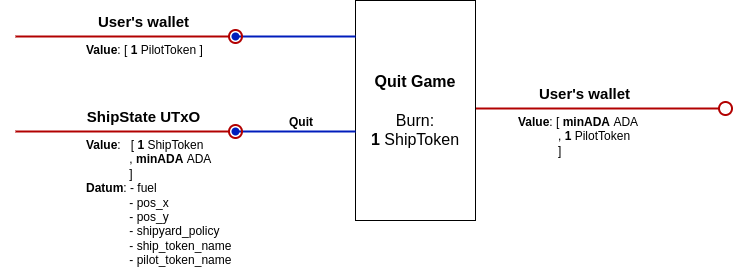
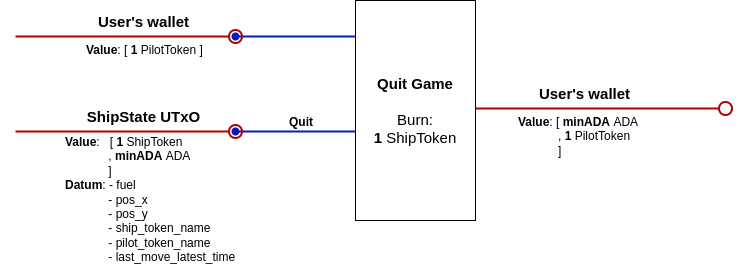
updated mvp design document.

diff --git a/onchain/docs/mvp-design/design.md b/onchain/docs/mvp-design/design.md
@@ -1,185 +1,237 @@
 # Asteria dApp Design
 
 ## Introduction
+
 This document describes the technical design of the Asteria dApp - the script UTxOs involved, the operations that take place both during the game and in the setup phase, and the necessary validators and minting policies.
 
 There will be a single `AsteriaUtxo`, several `PelletState` UTxOs and a `ShipState` UTxO for every user. The `AsteriaUtxo` locks the ada amount paid by each user when creating a ship, and it's position on the board is always assumed to be (0,0). Both `PelletState` and `ShipState` UTxOs have their positions specified in the datum. In order to identify valid game UTxOs, the admin will deposit a special token (the `AdminToken`) in the `PelletState` UTxOs and the `AsteriaUtxo` when creating them. This token is also used for parameterizing the Asteria and pellet validators, so we could have different "versions" of the game, each one with a different `AdminToken`.
 
 Each ship will be identified by a `ShipToken`, with a fixed policy id but a token name of their own. This is the token that is minted by the `ShipyardPolicy`, described in the validators section.
 
+## Glossary of Constants
+
+- `MAX_SPEED`: maximum speed allowed for ship's movement.
+- `INITIAL_FUEL`: ship's fuel upon creation.
+- `MAX_SHIP_FUEL`: ship's fuel capacity.
+- `FUEL_PER_STEP`: fuel spent per distance unit.
+- `MAX_ASTERIA_MINING`: maximum percentage that can be obtained from the rewards accumulated when a ship reaches Asteria. Must be an integer between 0 and 100.
+- `MIN_ASTERIA_DISTANCE`: ship's minimum distance to Asteria upon creation.
+- `SHIP_MINT_LOVELACE_FEE`: amount of Lovelace that users have to pay to create a ship.
 
 ## UTxOs specification
 
-### ShipState UTxO:
+### ShipState UTxO
 
->#### Address
->* Parameterized on `AdminToken`, Asteria validator address and pellet validator address.
->
->#### Datum
->* fuel: **Int**
->* pos_x: **Int**
->* pos_y: **Int**
->* ship_token_name: **AssetName**
->* pilot_token_name: **AssetName**
->
->#### Value
->* minADA
->* `ShipToken`
+#### Address
 
-### PelletState UTxO:
+>- Parameterized on `AdminToken`, Asteria validator address, pellet validator address, MAX_SPEED, MAX_SHIP_FUEL, FUEL_PER_STEP, INITIAL_FUEL and MIN_ASTERIA_DISTANCE.
 
->#### Address
->* Parameterized on the `AdminToken`.
->
->#### Datum
->* fuel: **Int**
->* pos_x: **Int**
->* pos_y: **Int**
->* shipyard_policy: **PolicyId**
->
->#### Value
->* minADA
->* `AdminToken`
+#### Datum
+
+>- fuel: **Int**
+>- pos_x: **Int**
+>- pos_y: **Int**
+>- ship_token_name: **AssetName**
+>- pilot_token_name: **AssetName**
+>- last_move_latest_time: **PosixTime**
+
+#### Value
+
+>- minADA
+>- `ShipToken`
+
+### PelletState UTxO
+
+#### Address
+
+>- Parameterized on the `AdminToken`.
+
+#### Datum
+
+>- fuel: **Int**
+>- pos_x: **Int**
+>- pos_y: **Int**
+>- shipyard_policy: **PolicyId**
+
+#### Value
+
+>- minADA
+>- `AdminToken`
 
 ### Asteria Utxo:
 
->#### Address
->* Parameterized on the `AdminToken`.
->
->#### Datum
->* ship_counter: **Int**
->* shipyard_policy: **PolicyId**
->
->#### Value
->* total_rewards
->* `AdminToken`
+#### Address
+
+>- Parameterized on the `AdminToken`, SHIP_MINT_LOVELACE_FEE, MAX_ASTERIA_MINING.
+
+#### Datum
+
+>- ship_counter: **Int**
+>- shipyard_policy: **PolicyId**
+
+#### Value
+
+>- minADA + total_rewards
+>- `AdminToken`
 >
 >Note: the reward amount is updated during the course of the game, whenever a new user joins or reaches Asteria.
 
-
 ## Transactions
 
-### Create AsteriaUtxo:
+### Create Asteria UTxO
+
 This transaction creates the unique `AsteriaUtxo` locking min ada and an `AdminToken`. It stores in the datum the `ShipToken` policy id for being able to reference it in the validator.
 
 ![createAsteria diagram](img/createAsteria.png)
 
+### Create a PelletState UTxO
 
-### Create a PelletState UTxO:
 Creates one `PelletState` UTxO locking min ada and an `AdminToken`, setting in the datum the `pos_x` and `pos_y` coordinates where the pellet will be located on the grid and the `fuel` value equal to some initial value.
 
 ![createPellet diagram](img/createPellet.png)
 
+### Consume PelletState UTxO
 
-### Create a ShipState UTxO:
-Creates a `ShipState` UTxO locking min ada and a `ShipToken` (minted in this tx), specifying in the datum the initial `pos_x` and `pos_y` coordinates of the ship, and setting `fuel` to an initial amount. Also adds to the `AsteriaUTxO` value the `SHIP_MINT_FEE` paid by the user.
+Pays the admin the value locked in the `PelletState` UTxO.
+
+![consumePellet diagram](img/consumePellet.png)
+
+### Create a ShipState UTxO
+
+Creates a `ShipState` UTxO locking min ada and a `ShipToken` (minted in this tx), specifying in the datum the initial `pos_x` and `pos_y` coordinates of the ship, its initial `fuel`, the ship and pilot token names and the `last_move_latest_time` as the upper bound of the transaction's validity range (posix time). Also adds to the `AsteriaUTxO` value the `SHIP_MINT_LOVELACE_FEE` paid by the user.
 
 ![createShip diagram](img/createShip.png)
 
+### Move a Ship
 
-### Move a Ship:
-Updates the `pos_x`, `pos_y` and `fuel` datum fields of the `ShipState` UTxO by adding the `delta_x` and `delta_y` values specified in the redeemer, and subtracting the fuel amount needed for the displacement.
+Updates the `pos_x`, `pos_y` and `fuel` datum fields of the `ShipState` UTxO by adding the `delta_x` and `delta_y` values specified in the redeemer, and subtracting the fuel amount needed for the displacement. Also updates the `last_move_latest_time` field with the transaction's validity range latest posix time.
 
 ![moveShip diagram](img/moveShip.png)
 
+### Gather Fuel
 
-### Gather Fuel:
 Updates the `fuel` datum field of both the `ShipState` and `PelletState` UTxOs, adding the `amount` (specified in the redeemer) from the first and subtracting it from the latter.
 
 ![gatherFuel diagram](img/gatherFuel.png)
 
+### Mine Asteria UTxO
 
-### Mine Asteria:
 Subtracts from the `AsteriaUTxO` at most `MAX_ASTERIA_MINING`% of the ada value, and pays that amount to the owner of the ship that reached Asteria, together with the min ada locked in the `ShipState` UTxO. The `ShipToken` is burnt.
 
 ![mineAsteria diagram](img/mineAsteria.png)
 
+### Consume Asteria UTxO
 
-### Quit Game:
+Pays the admin the value locked in the `AsteriaUtxo`.
+
+![consumeAsteria diagram](img/consumeAsteria.png)
+
+### Quit Game
+
 Pays the min ada locked in the `ShipState` UTxO back to the ship owner and burns the `ShipToken`.
 
 ![quit diagram](img/quit.png)
 
-
 ## Validators & Minting Policies
 
-### Asteria validator:
-* Params: `AdminToken`, `SHIP_MINT_FEE` and `MAX_ASTERIA_MINING`.
+### Asteria validator
+
+- Params: `AdminToken`, `SHIP_MINT_LOVELACE_FEE` and `MAX_ASTERIA_MINING`.
 
 #### *AddNewShip Redeemer*
-* `AsteriaUTxO` output value equals input value plus the `SHIP_MINT_FEE`.
-* `AdminToken` is in the input.
-* datum `ship_counter` field is incremented by 1.
+
+- `AsteriaUTxO` output value equals input value plus the `SHIP_MINT_FEE`.
+- `AdminToken` is in the input.
+- datum `ship_counter` field is incremented by 1.
 
 #### *Mine Redeemer*
-* `ShipToken` is present in some input.
-* `AsteriaUTxO` output value has at most `MAX_ASTERIA_MINING`% adas less than input value.
-* datum doesn't change.
 
-### Pellet validator:
-* Params: `AdminToken`.
+- `ShipToken` is present in some input.
+- `AsteriaUTxO` output value has at most `MAX_ASTERIA_MINING`% adas less than input value.
+- datum doesn't change.
+
+#### *ConsumeAsteria Redeemer*
+
+- `AdminToken` is present in some wallet input.
+
+### Pellet validator
+
+- Params: `AdminToken`.
 
 #### *Provide Redeemer (includes gathering amount)*
-* `ShipToken` is present in some input.
-* the amount specified is not greater than the fuel available in the pellet.
-* the amount specified is subtracted from the output `PelletState` fuel datum field, and the other fields remain unchanged.
-* The admin token is present in the input `PelletState`.
-* The `PelletState` value doesn't change.
 
-### SpaceTimeScript validator:
-* Params: `AdminToken`, Asteria validator address, pellet validator address, max distance allowed per movement, fuel required per step and ship's fuel capacity.
+- `ShipToken` is present in some input.
+- the amount specified is not greater than the fuel available in the pellet.
+- the amount specified is subtracted from the output `PelletState` fuel datum field, and the other fields remain unchanged.
+- The admin token is present in the input `PelletState`.
+- The `PelletState` value doesn't change.
+
+#### *ConsumePellet Redeemer*
+
+- `AdminToken` is present in some wallet input.
+
+### SpaceTime validator
+
+- Params: `AdminToken`, Asteria validator address, pellet validator address, MAX_SPEED, MAX_SHIP_FUEL, FUEL_PER_STEP, INITIAL_FUEL and MIN_ASTERIA_DISTANCE.
 
 #### *MoveShip Redeemer (includes delta_x and delta_y displacements)*
-* `ShipToken` is present.
-* there is a single `ShipState` input.
-* there is a single `ShipState` output.
-* the `PilotToken` is present in an input.
-* the `ShipState` input has enough fuel to move the desired delta.
-* the `ShipState` output value doesn't change.
-* the pilot_token datum field is not changed.
-* the x and y output datum values are updated as the previous ones (input values) plus the corresponding deltas.
-* the output fuel datum field equals the input fuel minus the fuel required for the displacement.
-* the distance advanced doesn't exceed the `MAX_SHIP_MOVEMENT_PER_TX`.
+
+- `ShipToken` is present.
+- there is a single `ShipState` input.
+- there is a single `ShipState` output.
+- the `PilotToken` is present in an input.
+- the `ShipState` input has enough fuel to move the desired delta.
+- the `ShipState` output value doesn't change.
+- the pilot_token datum field is not changed.
+- the x and y output datum values are updated as the previous ones (input values) plus the corresponding deltas.
+- the output fuel datum field equals the input fuel minus the fuel required for the displacement.
+- the distance advanced divided by the tx validity range (posix time) doesn't exceed the maximum speed.
 
 #### *GatherFuel Redeemer (includes gathering amount)*
-* `ShipToken` is present.
-* there is a single `ShipState` input.
-* there is a single `ShipState` output.
-* `PilotToken` is present.
-* there is a `PelletState` input with the same x and y datum coordinates as the `ShipState` UTxO.
-* the amount specified plus the fuel before charging does not exceed `MAX_SHIP_FUEL` capacity.
-* the amount specified is added to the output `ShipState` fuel datum field, and the other fields remain unchanged.
-* the `ShipState` output value is the same as the input.
+
+- `ShipToken` is present.
+- there is a single `ShipState` input.
+- there is a single `ShipState` output.
+- `PilotToken` is present.
+- there is a `PelletState` input with the same x and y datum coordinates as the `ShipState` UTxO.
+- the amount specified plus the fuel before charging does not exceed `MAX_SHIP_FUEL` capacity.
+- the amount specified is added to the output `ShipState` fuel datum field, and the other fields remain unchanged.
+- the `ShipState` output value is the same as the input.
 
 #### *MineAsteria Redeemer*
-* `ShipToken` is present.
-* there is a single `ShipState` input.
-* `PilotToken` is present.
-* `ShipState` position is (0,0).
-* `AsteriaUTxO` is input.
-* `ShipToken` is burnt.
+
+- `ShipToken` is present.
+- there is a single `ShipState` input.
+- `PilotToken` is present.
+- `ShipState` position is (0,0).
+- `AsteriaUTxO` is input.
+- `ShipToken` is burnt.
 
 #### *Quit Redeemer*
-* `ShipToken` is present.
-* there is a single `ShipState` input.
-* the `PilotToken` is present in an input.
-* `ShipToken` is burnt.
 
-### Ship minting policy or "ShipyardPolicy":
-* Params: `SpaceTimeScript` validator address, Asteria validator address, ship's initial fuel and minimum initial distance from Asteria.
+- `ShipToken` is present.
+- there is a single `ShipState` input.
+- the `PilotToken` is present in an input.
+- `ShipToken` is burnt.
 
-#### MINT:
-* `AsteriaUTxO` is input.
-* exactly two tokens are minted.
-* the name of one token is the `ship_counter` of the `AsteriaUTxO` datum appended to the string `SHIP`. We refer to this token as the `ShipToken`.
-* the name of one token is the `ship_counter` of the `AsteriaUTxO` datum appended to the string `PILOT`. We refer to this token as the `PilotToken`
-* there is a single `ShipState` output.
-* the `ShipState` fuel datum field equals some initial value.
-* the `ShipState` output datum has x and y coordinates such that distance from (0,0) is above the minimum distance.
-* the `ShipState` output datum has the `ship_token_name` set as the name of the `ShipToken`.
-* the `ShipState` output datum has the `pilot_token_name` set as the name of the `PilotToken`.
-* the `ShipToken` is paid to the `SpaceTimeScript` validator address.
+### Ship minting policy or "ShipyardPolicy"
 
-#### BURN:
-* there is a `ShipState` input.
-* only one token is burnt.
+- Params: same as SpaceTime validator.
+
+#### *MintShip Redeemer*
+
+- `AsteriaUTxO` is input.
+- exactly two tokens are minted.
+- the name of one token is the `ship_counter` of the `AsteriaUTxO` datum appended to the string `SHIP`. We refer to this token as the `ShipToken`.
+- the name of one token is the `ship_counter` of the `AsteriaUTxO` datum appended to the string `PILOT`. We refer to this token as the `PilotToken`
+- there is a single `ShipState` output.
+- the `ShipState` fuel datum field equals some initial value.
+- the `ShipState` output datum has x and y coordinates such that distance from (0,0) is above the minimum distance.
+- the `ShipState` output datum has the `ship_token_name` set as the name of the `ShipToken`.
+- the `ShipState` output datum has the `pilot_token_name` set as the name of the `PilotToken`.
+- the `ShipToken` is paid to the `SpaceTimeScript` validator address.
+
+#### *BurnShip Redeemer*
+
+- there is a `ShipState` input.
+- only one token is burnt.
